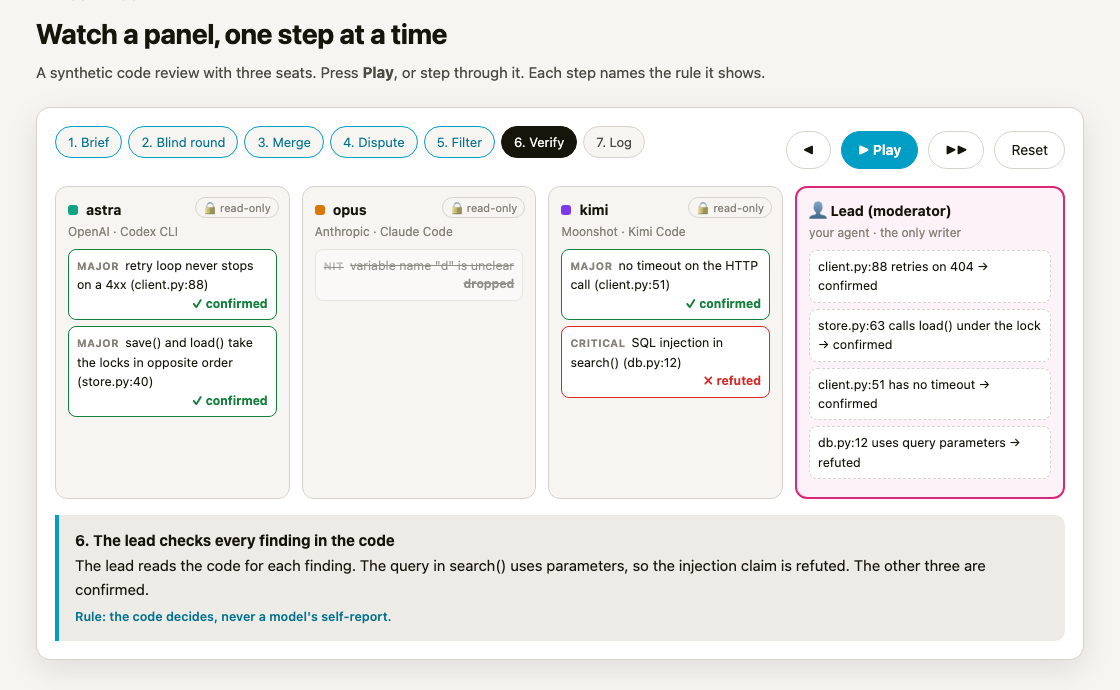
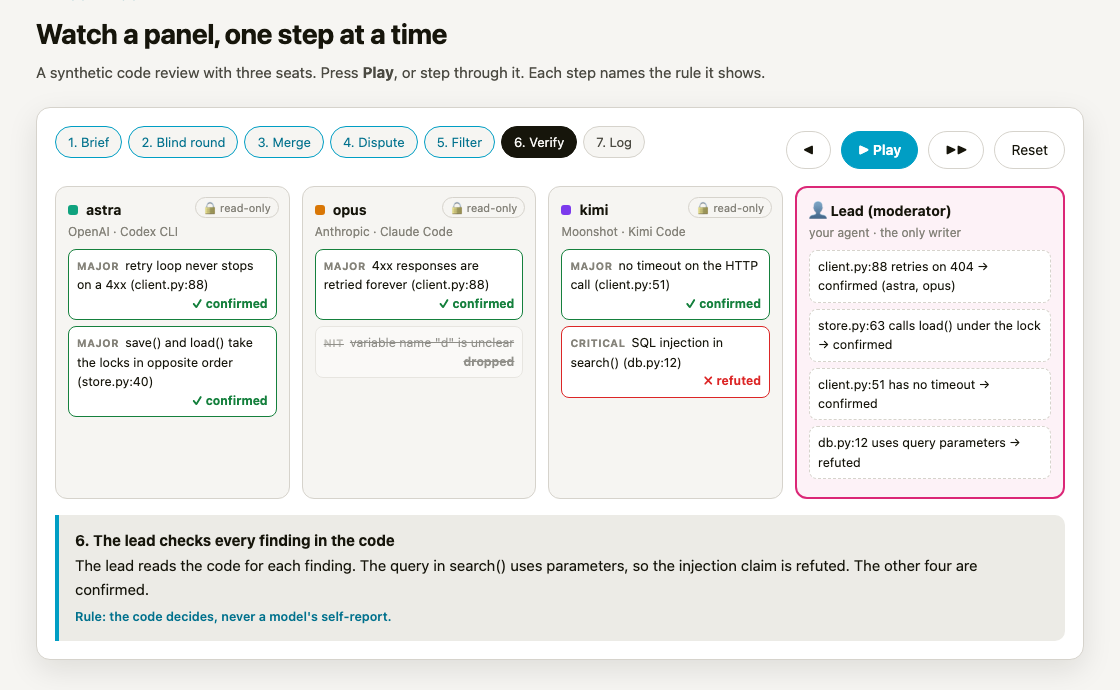
docs: correct the guide after review
agy's review checked the new docs against the code. A capped lead stops at
bw's next check, not at a turn boundary; the return to the preferred lead
waits until you quit the replacement; bw cap prints 'capped until'; the
panel's first summary line is bw's '<Kind> panel (...)' line; bw start
opens the tab before the seat check. The Quick start adds mkdir and PATH,
the status-line quota step, the git-repo and macOS notes, and the terms a
first reader meets in bw status. The panel player now groups the shared
finding per seat and relays the disputed claim to the other seat.

diff --git a/docs/start/index.html b/docs/start/index.html
@@ -295,8 +295,8 @@ footer { margin-top: 60px; color: var(--ink-3); font-size: 13px; border-top: 1px
       <div class="narr" id="pnarr" aria-live="polite"></div>
       <div class="summary" id="psummary">
         <div class="term" style="min-height:0"><span class="dim"># what you see in the lead</span>
-Seats: astra, opus, kimi.
-5 findings, 3 confirmed, 1 refuted, 1 dropped (style). Most important: the retry loop never stops on a 4xx.
+Review panel (astra, opus, kimi): 6 findings, 4 confirmed, 1 refuted, 1 dropped.
+Most important: the retry loop never stops on a 4xx.
 One dispute (opus against astra on the lock order). The code agreed with astra.</div>
       </div>
     </div>
@@ -317,7 +317,7 @@ One dispute (opus against astra on the lock order). The code agreed with astra.<
   <section id="rotation" aria-labelledby="t-rot">
     <div class="kicker">Leads and rotation</div>
     <h2 id="t-rot">When a plan runs out, work goes on</h2>
-    <p class="sub">A profile lists your leads in order. When the current lead's plan is capped, <code>bw</code> stops it at a turn boundary, writes a handoff, and starts the next lead. When the preferred plan resets, the next session goes back to it. The plans and times here are an illustration.</p>
+    <p class="sub">A profile lists your leads in order. When the current lead's plan is capped, <code>bw</code> stops it at its next check, writes a handoff, and starts the next lead. A plan that is only low never moves a running lead. After the preferred plan resets, your next session goes back to it. The plans and times here are an illustration.</p>
     <div class="card timeline">
       <div class="row" style="justify-content:space-between">
         <div class="row"><button class="btn primary" id="rplay">▶ Play a day</button><button class="btn" id="rreset">Reset</button></div>
@@ -341,7 +341,7 @@ One dispute (opus against astra on the lock order). The code agreed with astra.<
         <input type="range" id="np" min="1" max="12" value="1"></label>
       <div class="tablewrap">
         <table>
-          <thead><tr><th>Seat</th><th>Panels</th><th>Confirmed rate</th><th style="width:30%">Unique catches</th><th>Dispute wins</th></tr></thead>
+          <thead><tr><th>Seat</th><th>Panels</th><th>Confirmed rate</th><th style="width:30%">Unique catches (last 5 panels)</th><th>Dispute wins</th></tr></thead>
           <tbody id="sbody"></tbody>
         </table>
       </div>
@@ -393,7 +393,8 @@ One dispute (opus against astra on the lock order). The code agreed with astra.<
   ];
   // Each finding: which seat, severity, text, and what happens to it.
   const findings = [
-    { id: 'f1', seat: 'astra', sev: 'major', text: 'retry loop never stops on a 4xx (client.py:88)', fate: 'confirmed', also: 'opus' },
+    { id: 'f1', seat: 'astra', sev: 'major', text: 'retry loop never stops on a 4xx (client.py:88)', fate: 'confirmed' },
+    { id: 'f1b', seat: 'opus', sev: 'major', text: '4xx responses are retried forever (client.py:88)', fate: 'confirmed' },
     { id: 'f2', seat: 'astra', sev: 'major', text: 'save() and load() take the locks in opposite order (store.py:40)', fate: 'confirmed', dispute: true },
     { id: 'f3', seat: 'opus', sev: 'nit', text: 'variable name "d" is unclear', fate: 'dropped' },
     { id: 'f4', seat: 'kimi', sev: 'major', text: 'no timeout on the HTTP call (client.py:51)', fate: 'confirmed' },
@@ -406,20 +407,20 @@ One dispute (opus against astra on the lock order). The code agreed with astra.<
     { key: 'blind', label: 'Blind round', title: 'The seats review blind, in parallel',
       text: 'Each seat explores the repo on its own and cannot see the others. Agreement between them now means something. Each seat runs in an OS sandbox and has a time cap.',
       rule: 'Rule: blind first round. Never relaxed.' },
-    { key: 'merge', label: 'Merge', title: 'bw merges and counts',
-      text: 'Two seats found the same retry-loop bug, so it merges into one finding. opus challenges astra on the lock order. That is a dispute.',
-      rule: 'Rule: one finding per problem, counted per seat.' },
+    { key: 'merge', label: 'Merge', title: 'bw groups and counts',
+      text: 'astra and opus both found the retry-loop bug at client.py:88, so bw puts the two findings in one group. Each seat keeps its own finding and its own verdict. Only astra raised the lock order.',
+      rule: 'Rule: one group per problem, counted per seat.' },
     { key: 'dispute', label: 'Dispute', title: 'Only the disputed claim is relayed',
-      text: 'The lead sends astra the one claim from opus, not the whole transcript. astra answers with file and line. Rounds are capped.',
+      text: 'The lead asks opus about astra\'s lock-order claim. It sends that one claim, never the whole transcript. opus disagrees, so the lead asks astra for file and line. Rounds are capped.',
       rule: 'Rule: claim-only relays. Never relaxed.' },
     { key: 'filter', label: 'Filter', title: 'The substance bar drops weak challenges',
       text: 'A finding must say what breaks and where. "Variable name is unclear" says neither, so it is dropped. It is still logged against the seat that raised it.',
       rule: 'Rule: what breaks, and where.' },
     { key: 'verify', label: 'Verify', title: 'The lead checks every finding in the code',
-      text: 'The lead reads the code for each finding. The query in search() uses parameters, so the injection claim is refuted. The other three are confirmed.',
+      text: 'The lead reads the code for each finding. The query in search() uses parameters, so the injection claim is refuted. The other four are confirmed.',
       rule: 'Rule: the code decides, never a model\'s self-report.' },
     { key: 'log', label: 'Log', title: 'One record goes to the log',
-      text: 'bw fills in the mechanical fields and appends one panel record to metrics.jsonl: seats, findings, disputes, verdicts. The scoreboard reads it.',
+      text: 'The lead hands bw its verdicts in a request file. bw fills in the mechanical fields and appends one panel record to metrics.jsonl: seats, findings, disputes, verdicts. The scoreboard reads it.',
       rule: 'Rule: every panel is logged, with its findings.' },
   ];
   const arena = $('#arena');
@@ -464,11 +465,11 @@ One dispute (opus against astra on the lock order). The code agreed with astra.<
     const leadText = {
       brief: ['Target: the change to client.py, store.py, db.py', 'bw renders one brief for all three seats'],
       blind: ['Waiting for round 1…', 'Each seat has a wall-clock cap'],
-      merge: ['5 findings from 3 seats', 'retry-loop bug: found by astra and opus', 'Dispute: opus says the lock order is safe'],
-      dispute: ['→ astra: "opus says store.py:40 is safe because load() never runs under save(). Answer with file and line."', '← astra: "load() is called from save() at store.py:63."'],
+      merge: ['6 findings from 3 seats', 'group: retry-loop bug (astra and opus)', 'store.py:40 lock order: only astra raised it'],
+      dispute: ['→ opus: "Another reviewer says store.py:40 can deadlock. Is it right?"', '← opus: "No. load() never runs under save()."', '→ astra: "Show where load() runs under save()."', '← astra: "save() calls load() at store.py:63."'],
       filter: ['Dropped: "variable name d is unclear" (no break, no place)'],
-      verify: ['client.py:88 retries on 404 → confirmed', 'store.py:63 calls load() under the lock → confirmed', 'client.py:51 has no timeout → confirmed', 'db.py:12 uses query parameters → refuted'],
-      log: ['bw panel log <panel-id> < verdicts.json', '1 panel record appended to metrics.jsonl'],
+      verify: ['client.py:88 retries on 404 → confirmed (astra, opus)', 'store.py:63 calls load() under the lock → confirmed', 'client.py:51 has no timeout → confirmed', 'db.py:12 uses query parameters → refuted'],
+      log: ['The lead writes its verdicts as a log request file', 'bw appends 1 panel record to metrics.jsonl'],
     }[k];
     leadSay(leadText);
     const s = steps[cur];
@@ -491,17 +492,17 @@ One dispute (opus against astra on the lock order). The code agreed with astra.<
   /* ── QUICK START ──────────────────────────────────────────────── */
   const qs = [
     { t: 'Get bw', why: 'Clone it to a place that no lead edits, and link the command.',
-      cmd: 'git clone https://github.com/tensorgroup/balancewheel ~/.local/share/balancewheel\nln -sf ~/.local/share/balancewheel/bin/bw ~/.local/bin/bw\nln -sf ~/.local/share/balancewheel/bin/bw-statusline ~/.local/bin/bw-statusline',
+      cmd: 'mkdir -p ~/.local/bin\ngit clone https://github.com/tensorgroup/balancewheel ~/.local/share/balancewheel\nln -sf ~/.local/share/balancewheel/bin/bw ~/.local/bin/bw\nln -sf ~/.local/share/balancewheel/bin/bw-statusline ~/.local/bin/bw-statusline',
       out: [['dim', "Cloning into '~/.local/share/balancewheel'..."]],
-      means: '<b>Why a separate clone?</b> A lead can edit its own worktree. If <code>bw</code> ran from there, the lead could change the guard of its next session.' },
+      means: '<b>Make sure <code>~/.local/bin</code> is on your PATH.</b> Why a separate clone? A lead can edit its own worktree. If <code>bw</code> ran from there, the lead could change the guard of its next session.' },
     { t: 'Make a config', why: 'Start from the example. Then check it.',
       cmd: 'mkdir -p ~/.config/balancewheel\ncp ~/.local/share/balancewheel/balancewheel.example.json ~/.config/balancewheel/config.json\npython3 ~/.local/share/balancewheel/metrics/log.py config',
       out: [['', '{\n  "schema_version": 3,\n  "canvas": "terminal",\n  "plans": {\n    "claude-plan": {\n      "vendor": "anthropic",\n  …'], ['ok', '\n(exit status 0)']],
-      means: '<b>Exit 0:</b> the config is valid. A mistake prints one line, for example <code>config error: seatz: unknown key</code>, and exit status 2. Then put your own plans, leads, and seats in place of the example.' },
+      means: '<b>Exit 0:</b> the config is valid. A mistake prints one line, for example <code>config error: seatz: unknown key</code>, and exit status 2. Keep the example for the next steps. Before real use, put your own plans, leads, seats, and profiles in its place.' },
     { t: 'Look at the state', why: 'One command shows plans, leads, asks, and the guard.',
       cmd: 'bw status',
-      out: [['', 'plans:\n  chatgpt-plan (plan): quota unknown — quota: none\n  claude-plan (plan): quota unknown — statusline: no reading\n    no quota reading yet; rotation is using observed caps only\n  …\nleads:\n  astra: codex gpt-6-astra on chatgpt-plan · contained by self\n  claude: claude-code opus on claude-plan · contained by self\ninbox: empty\nguard:\n  no judge: gray calls are recorded as asks, nothing is stopped; the guard stays shadow']],
-      means: '<b>"quota unknown" is normal</b> on a new machine. It changes after the first lead session reports usage.' },
+      out: [['', 'plans:\n  chatgpt-plan (plan): quota unknown — quota: none\n  claude-plan (plan): quota unknown — statusline: no reading\n    no quota reading yet; rotation is using observed caps only\n  …\nleads:\n  astra: codex gpt-6-astra on chatgpt-plan · contained by self\n  claude: claude-code opus on claude-plan · contained by self\ninbox: empty\nguard:\n  no judge: gray calls are recorded as asks, nothing is stopped; the guard stays shadow (set guard.model to let it act)']],
+      means: '<b>"quota unknown" is normal</b> on a new machine. To let Claude Code report quota, set <code>bw-statusline &lt;plan&gt;</code> as its <code>statusLine</code>. For other leads, run <code>bw cap &lt;plan&gt;</code> when a plan runs out. <b>contained by self</b> means the tool uses its own sandbox. In <b>shadow</b> mode the guard only logs.' },
     { t: 'List the seats', why: 'Each seat has a runtime, a model, a plan, and a verification state.',
       cmd: 'bw seat list',
       out: [['', 'astra  codex  gpt-6-astra  plan=chatgpt-plan  fallback=gem  tier=default  '], ['bad', 'verified=no (never verified)'], ['', '  capped=no\nopus  claude-code  claude-opus-5-5  plan=claude-plan  fallback=-  tier=default  '], ['bad', 'verified=no (never verified)'], ['', '  capped=no\n…']],
@@ -510,14 +511,14 @@ One dispute (opus against astra on the lock order). The code agreed with astra.<
       cmd: 'bw seat verify\nbw seat list',
       out: [['dim', '… the attack runs for each seat …\n'], ['ok', 'bw: recorded a seat pass for codex on …'], ['', '\nastra  codex  gpt-6-astra  plan=chatgpt-plan  …  '], ['ok', 'verified=yes'], ['', '  capped=no']],
       means: '<b>It spends a little model quota.</b> A seat that is capped or not logged in shows <code>seat &lt;id&gt;: pending — &lt;reason&gt;</code>. That is not a failure. Run it again after a CLI upgrade.' },
-    { t: 'Open a project (dry run)', why: 'See what bw start would do. Nothing runs and nothing is written.',
+    { t: 'Open a project (dry run)', why: 'Use the path of one of your git repositories. See what bw start would do. Nothing runs and nothing is written.',
       cmd: 'bw start --dry-run ~/code/my-project',
       out: [['', 'bw start: dry run for ~/code/my-project (profile product); nothing is run or written\nbw start: would update claude: claude update · lock runtime-claude-code · installer claude\nbw start: would read quota for plan claude-plan\nbw start: would check seats in the background\n'], ['ok', 'bw start: lead: claude (order)'], ['', '\nbw start: would run: open -a Terminal ~/.local/state/balancewheel/start/98bf2f5e3750.command']],
       means: '<b>lead: claude (order)</b> means the first lead in the profile\'s order would start.' },
-    { t: 'Open it for real', why: 'Update the tools, re-check containment, read quota, and open the lead in a new Terminal tab.',
+    { t: 'Open it for real', why: 'Update the tools, re-check containment, read quota, and open the lead in a new macOS Terminal tab.',
       cmd: 'bw start ~/code/my-project',
-      out: [['', 'bw start: claude: 2.4.1 → 2.4.1 current (1.2s)\n…\nbw start: lead: claude (order)\nbw start: checking seats in the background (log: …)\n'], ['ok', 'bw start: opened a Terminal tab for ~/code/my-project']],
-      means: '<b>Inside a project, plain <code>bw</code></b> starts the lead in the terminal you are in. The version numbers here are an example.' },
+      out: [['', 'bw start: claude: 2.4.1 → 2.4.1 current (1.2s)\n…\nbw start: lead: claude (order)\n'], ['ok', 'bw start: opened a Terminal tab for ~/code/my-project'], ['', '\nbw start: checking seats in the background (log: …)']],
+      means: '<b>Inside a project, plain <code>bw</code></b> starts the lead in the terminal you are in. On Linux, use that. The version numbers here are an example.' },
     { t: 'Answer and improve', why: 'Questions only you can answer reach you as files. bw also learns from how you work.',
       cmd: 'bw inbox\nbw improve',
       out: [['', 'bw: inbox empty\nbw: nothing to change yet; the evidence builds as you work']],
@@ -572,10 +573,10 @@ One dispute (opus against astra on the lock order). The code agreed with astra.<
   let rt = null, now = T0;
   const events = [
     [T0, 'bw start: lead: A (order) · your preferred plan'],
-    [CAP, 'Lead A\'s plan is capped. bw waits for the turn to end, stops A, and writes a handoff.'],
+    [CAP, 'Lead A\'s plan is capped. At its next check, bw stops A and writes a handoff.'],
     [CAP + 15, 'bw starts Lead B with the handoff. B continues the checkpoint\'s "next:" line.'],
-    [RESET, 'Plan A has reset. At the next session boundary, bw goes back to Lead A.'],
-    [RESET + 15, 'Lead A continues from B\'s checkpoint. Every switch is in the log.'],
+    [RESET, 'Plan A has reset. Lead B keeps running until you quit it.'],
+    [RESET + 15, 'You quit Lead B. bw says Lead A is available again; your next bw starts Lead A.'],
   ];
   function seg(track, from, to, color, label) {
     const s = el('div', { class: 'seg', text: label, style: `left:${pct(from)}%;width:${pct(Math.min(to, now)) - pct(from)}%;background:${color}` });
@@ -584,12 +585,12 @@ One dispute (opus against astra on the lock order). The code agreed with astra.<
   function rdraw() {
     ta.replaceChildren(); tb.replaceChildren();
     if (now > T0) seg(ta, T0, Math.min(now, CAP), 'var(--seat-a)', 'working');
-    if (now > CAP + 15) seg(tb, CAP + 15, Math.min(now, RESET), 'var(--seat-b)', 'working');
-    if (now > RESET + 15) seg(ta, RESET + 15, now, 'var(--seat-a)', 'back');
+    if (now > CAP + 15) seg(tb, CAP + 15, Math.min(now, RESET + 15), 'var(--seat-b)', 'working');
+    if (now > RESET + 30) seg(ta, RESET + 30, now, 'var(--seat-a)', 'back');
     const used = now < CAP ? (now - T0) / (CAP - T0) : now < RESET ? 1 : (now - RESET) / (CAP - T0) * .6;
     $('#qa').style.width = `${Math.min(100, used * 100)}%`;
     $('#qa').style.background = used >= 1 ? 'var(--bad)' : used > .8 ? 'var(--warn)' : 'var(--ok)';
-    const ub = now <= CAP ? 0 : Math.min(now, RESET) - CAP;
+    const ub = now <= CAP ? 0 : Math.min(now, RESET + 15) - CAP;
     $('#qb').style.width = `${Math.min(100, ub / (TEND - T0) * 160)}%`;
     const hh = String(Math.floor(now / 60)).padStart(2, '0'), mm = String(now % 60).padStart(2, '0');
     $('#rclock').textContent = `${hh}:${mm}`;
@@ -632,12 +633,12 @@ One dispute (opus against astra on the lock order). The code agreed with astra.<
       const lastFive = P.slice(Math.max(0, n - 5), n).reduce((s, p) => s + p[id][2], 0);
       return { id, f, c, u, w, d, lastFive };
     });
-    const maxU = Math.max(1, ...rows.map(r => r.u));
+    const maxU = Math.max(1, ...rows.map(r => r.lastFive));
     $('#sbody').replaceChildren(...rows.map(r => el('tr', {},
       el('td', {}, el('span', { style: `display:inline-block;width:10px;height:10px;border-radius:3px;background:${colors[r.id]};margin-right:8px` }), el('b', { text: r.id })),
       el('td', { text: String(n) }),
       el('td', { text: n < 3 ? `${r.c}/${r.f} (too few)` : `${Math.round(r.c / r.f * 100)}% (${r.c}/${r.f})` }),
-      el('td', {}, el('div', { class: 'row', style: 'flex-wrap:nowrap' }, el('div', { class: 'meter' }, el('i', { style: `width:${r.u / maxU * 100}%;background:${colors[r.id]}` })), el('span', { class: 'mono', text: String(r.u) }))),
+      el('td', {}, el('div', { class: 'row', style: 'flex-wrap:nowrap' }, el('div', { class: 'meter' }, el('i', { style: `width:${r.lastFive / maxU * 100}%;background:${colors[r.id]}` })), el('span', { class: 'mono', text: String(r.lastFive) }))),
       el('td', { text: r.d ? `${r.w}/${r.d}` : '—' }))));
     const idle = rows.filter(r => n >= 5 && r.lastFive === 0);
     const w = $('#swatch');
@@ -654,7 +655,7 @@ One dispute (opus against astra on the lock order). The code agreed with astra.<
     ['See plans, leads, and asks', 'bw status', 'Plans, worktrees, leads, inbox, and guard.'],
     ['Answer a lead', 'bw inbox\nbw answer <id> "<text>"', 'The open asks. The lead then reads your answer.'],
     ['Use another lead here', 'bw lead --use <lead>', 'Undo with bw lead --auto.'],
-    ['Record a capped plan', 'bw cap <plan>', 'For leads that do not report usage themselves.'],
+    ['Record a capped plan', 'bw cap <plan>', '"bw: <plan> capped until …". For leads that do not report usage.'],
     ['Check the seats', 'bw seat list', 'One line per seat: verified=, capped=.'],
     ['Re-test after an upgrade', 'bw seat verify', '"bw: recorded a seat pass for …" per seat.'],
     ['See the scoreboard', 'python3 ~/.local/share/balancewheel/metrics/dashboard.py', 'The path of dashboard.html. Open it in a browser.'],

diff --git a/README.md b/README.md
@@ -52,10 +52,12 @@ You normally never start a panel by hand. The lead convenes one at a checkpoint 
 a plan, a code review, a stuck bug), and you see three lines:
 
 ```text
-Seats: astra, opus. kimi was absent (usage cap).
-7 findings, 5 confirmed, 2 refuted. Most important: the retry loop never stops on a 4xx.
+Review panel (astra, opus; kimi absent: usage cap): 7 findings, 5 confirmed, 2 refuted, 0 dropped.
+Most important: the retry loop never stops on a 4xx.
 One dispute (astra against opus on the lock order). The code agreed with astra.
 ```
+
+Line 1 comes from `bw`. Lines 2 and 3 come from the lead.
 
 ```mermaid
 sequenceDiagram
@@ -87,10 +89,13 @@ Everything is under your home directory.
 **1. Get `bw`.** Clone it to a place that no lead edits, and link the command.
 
 ```sh
+mkdir -p ~/.local/bin
 git clone https://github.com/tensorgroup/balancewheel ~/.local/share/balancewheel
 ln -sf ~/.local/share/balancewheel/bin/bw ~/.local/bin/bw
 ln -sf ~/.local/share/balancewheel/bin/bw-statusline ~/.local/bin/bw-statusline
 ```
+
+Make sure `~/.local/bin` is on your `PATH`. Check with `bw --help`.
 
 > Why a separate clone? A lead can edit its own worktree. If `bw` ran from that worktree,
 > the lead could change the guard of its next session.
@@ -121,8 +126,9 @@ A mistake gives one line and exit status 2. Fix the key it names and run the che
 config error: seatz: unknown key
 ```
 
-Then replace the example's plans, leads, and seats with your own. The example is a working
-combination, not a requirement.
+Keep the example for steps 3 to 5, so that you see the same names as below. Before real
+use, put your own in its place: `plans` (your subscriptions and API keys), `leads`, `seats`,
+and `profiles` (the lead order and the panel rules for each project).
 
 **3. Look at the state.**
 
@@ -144,7 +150,12 @@ guard:
   no judge: gray calls are recorded as asks, nothing is stopped; the guard stays shadow (set guard.model to let it act)
 ```
 
-"quota unknown" is normal on a new machine. It changes after the first lead session.
+- `contained by self` means the tool runs in its own sandbox.
+- The `guard` checks a lead's tool calls. In `shadow` mode it only logs, and blocks nothing.
+- "quota unknown" is normal on a new machine. To let Claude Code report its quota, set
+  `bw-statusline <plan>` as its `statusLine` in `~/.claude/settings.json` (see
+  [first run](docs/leads.md#start-leading-first-run)). For other leads, run `bw cap <plan>`
+  when a plan runs out.
 
 **4. Prove that each seat is read-only.**
 
@@ -175,7 +186,8 @@ bw: recorded a seat pass for codex on …
 The test spends a little model quota. A seat that is capped or not logged in shows
 `seat <id>: pending — <reason>` and does not fail the run.
 
-**5. Open a project with a lead.** Try a dry run first. It changes nothing:
+**5. Open a project with a lead.** Use the path of one of your git repositories in place of
+`~/code/my-project`. Try a dry run first. It changes nothing:
 
 ```sh
 bw start --dry-run ~/code/my-project
@@ -191,7 +203,7 @@ bw start: would run: open -a Terminal ~/.local/state/balancewheel/start/98bf2f5e
 ```
 
 Then run it for real. `bw start` updates your tools, re-checks containment, reads quota, and
-opens the lead in a new Terminal tab:
+opens the lead in a new macOS Terminal tab. On Linux, run `bw` inside the repository instead.
 
 ```sh
 bw start ~/code/my-project
@@ -199,8 +211,9 @@ bw start ~/code/my-project
 
 Inside a project, plain `bw` does the same in the terminal you are in.
 
-**6. Work as usual.** The lead keeps a checkpoint and convenes panels. When its plan runs
-out, `bw` stops it, writes a handoff, and starts the next lead in your profile's order.
+**6. Work as usual.** The lead keeps a checkpoint and convenes panels. When its plan is
+capped (the status line reports it for Claude Code; `bw cap <plan>` records it for other
+leads), `bw` stops the lead, writes a handoff, and starts the next lead in your profile's order.
 
 **7. Answer what only you can answer.**
 
@@ -240,7 +253,7 @@ setup by your own agent, use the paste-in prompts in [Getting started](#getting-
 | See plans, leads, and asks | `bw status` | plans, worktrees, leads, inbox, guard |
 | Answer a lead's question | `bw inbox`, then `bw answer <id> "<text>"` | the open asks; then the lead reads your answer |
 | Use a different lead here | `bw lead --use <lead>` (undo: `bw lead --auto`) | that lead starts here; a change from the profile order is logged |
-| Record that a plan ran out | `bw cap <plan>` | the next lead takes over at the next boundary |
+| Record that a plan ran out | `bw cap <plan>` | `bw: <plan> capped until …`; the running lead switches at the next check |
 | Check the seats | `bw seat list` | one line per seat: `verified=`, `capped=` |
 | Re-test a seat after an upgrade | `bw seat verify <id>` | `bw: recorded a seat pass for …` |
 | See the scoreboard | `python3 ~/.local/share/balancewheel/metrics/dashboard.py` | the path of `dashboard.html` |
@@ -254,14 +267,16 @@ All commands: `bw --help`, or [docs/leads.md](docs/leads.md).
 
 ```mermaid
 flowchart TD
-    a["Lead A works<br/>(preferred plan)"] -->|plan capped| stop["bw stops Lead A<br/>at a turn boundary"]
+    a["Lead A works<br/>(preferred plan)"] -->|plan capped| stop["bw stops Lead A<br/>at its next check"]
     stop --> h["bw writes a handoff:<br/>git facts + last checkpoint"]
     h --> b["Lead B starts<br/>(next in lead_order)"]
     b -->|continues the 'next:' line| w["work goes on"]
-    w -->|preferred plan resets| a
+    w -->|"plan A resets, you quit Lead B"| a
 ```
 
-`bw` never switches in the middle of a turn, and never for a plan that is only low.
+`bw` switches a running lead only when its plan is capped, never when the plan is only low.
+After the preferred plan resets, Lead B keeps running. When you quit it, `bw` says that Lead A
+is available again, and your next `bw` starts Lead A.
 
 ## The core ideas (one screen)
 
@@ -286,16 +301,16 @@ flowchart TD
 
 ## It gets better with use
 
-The standing goal: working with balancewheel gets easier, faster, and better the more it is used,
-for everyone working together on a project. So it watches how you actually work. `bw improve` reads
-what is already recorded (decisions you reversed, questions you only agreed with, session ratings,
-cap switches, leads you forced by hand, seats that keep missing panels) plus the one-line `@improve`
-notes leads publish when you correct them, and names the specific change each pattern points to,
-with its evidence. Every rule has a minimum sample, so a thin log says nothing rather than a guess.
-It only looks at the last 30 days, and `bw improve done` means a suggestion returns only on new
-evidence. It never suggests weakening the safety checks. It changes nothing itself: config and
-protocol edits stay yours. A one-line nudge before a lead
-starts tells you when there is something to look at.
+`bw improve` reads the last 30 days of your log. It looks for patterns: decisions you
+reversed, questions you only agreed with, session ratings, cap switches, leads you forced by
+hand, seats that keep missing panels, and the one-line `@improve` notes leads write when you
+correct them. For each pattern it names one change, with the evidence.
+
+- Every rule needs a minimum sample. On a thin log it says nothing.
+- It never changes your config or your rules. You make each change.
+- It never suggests weaker safety checks.
+- `bw improve done <key>` hides a suggestion until new evidence appears.
+- Before a lead starts, `bw` prints one line when there is something to look at.
 
 ## How it works, in more detail
 

diff --git a/docs/leads.md b/docs/leads.md
@@ -2,7 +2,9 @@
 
 *Written 2026-11-24: moved here, unchanged, from the README's "Leads and rotation" section, so the README
 stays a short entry point. The README's Quick start is the short path; this page is the full reference for
-`bw`. Interactive walk-through: [docs/start/](https://tensorgroup.github.io/balancewheel/start/).*
+`bw`. Interactive walk-through: [docs/start/](https://tensorgroup.github.io/balancewheel/start/).
+Corrected the same day after review: the panel's summary line, the `bw start` prefix of the seat-check
+line, and a stale "not in v0" note on acting.*
 
 The **lead** is the agent you work in for a project; it is also the moderator of every
 panel it convenes. One plan usually runs out first, so a project's **profile** (config
@@ -44,8 +46,8 @@ at each checkpoint of its profile, writes a request file, and keeps working. `bw
 counts them. The lead then checks each finding against the code, relays disputed claims one
 at a time, and logs the panel. You see three lines:
 
-    Seats: astra, opus. kimi was absent (usage cap).
-    7 findings, 5 confirmed, 2 refuted. Most important: the retry loop never stops on a 4xx.
+    Review panel (astra, opus; kimi absent: usage cap): 7 findings, 5 confirmed, 2 refuted, 0 dropped.
+    Most important: the retry loop never stops on a 4xx.
     One dispute (astra against opus on the lock order). The code agreed with astra.
 
 A panel has the states `queued`, `running`, `ready`, `logged`, and `failed`. A worktree has
@@ -151,7 +153,7 @@ once for each bw-contained lead runtime.
     share: the allow grammar is deliberately small, so most unfamiliar commands start gray.
     Another agent runtime started by the lead (a second `claude`, `codex`, or `pi`) is
     outside the guard: it is gray, so it asks, and what it does inside is not judged.
-    Once acting exists (not in v0), a false block is worked around by hand, outside the lead.
+    When the guard is acting, a false block is worked around by hand, outside the lead.
 - **`bw start [path] [--dry-run] [--no-update] [--no-verify]` (since 2026-10-25).** One command
   to begin a session in a project (the path defaults to the current directory). It refuses
   when `bw` itself lives inside the target worktree or its git directory (a lead could edit
@@ -345,8 +347,8 @@ once for each bw-contained lead runtime.
    lead to end the session; `bw guard review` later shows what a guarded lead's guard
    logged.
 6. **Seats.** You do not need `bw seat` in normal use: the panel runs the seats. `bw start`
-   checks changed seats in the background after the lead opens. It prints `bw: checking seats
-   in the background (log: <path>)`. `bw seat verify` does the same check by hand, and
+   checks changed seats in the background after the lead opens. It prints `bw start: checking
+   seats in the background (log: <path>)`. `bw seat verify` does the same check by hand, and
    `bw seat list` shows the state of each seat. Each seat has its own login step:
    - **Claude seat.** The keychain login does not carry over to the seat's private home. Run
      `claude setup-token` once. Export `CLAUDE_CODE_OAUTH_TOKEN` in the shell that runs `bw`.
